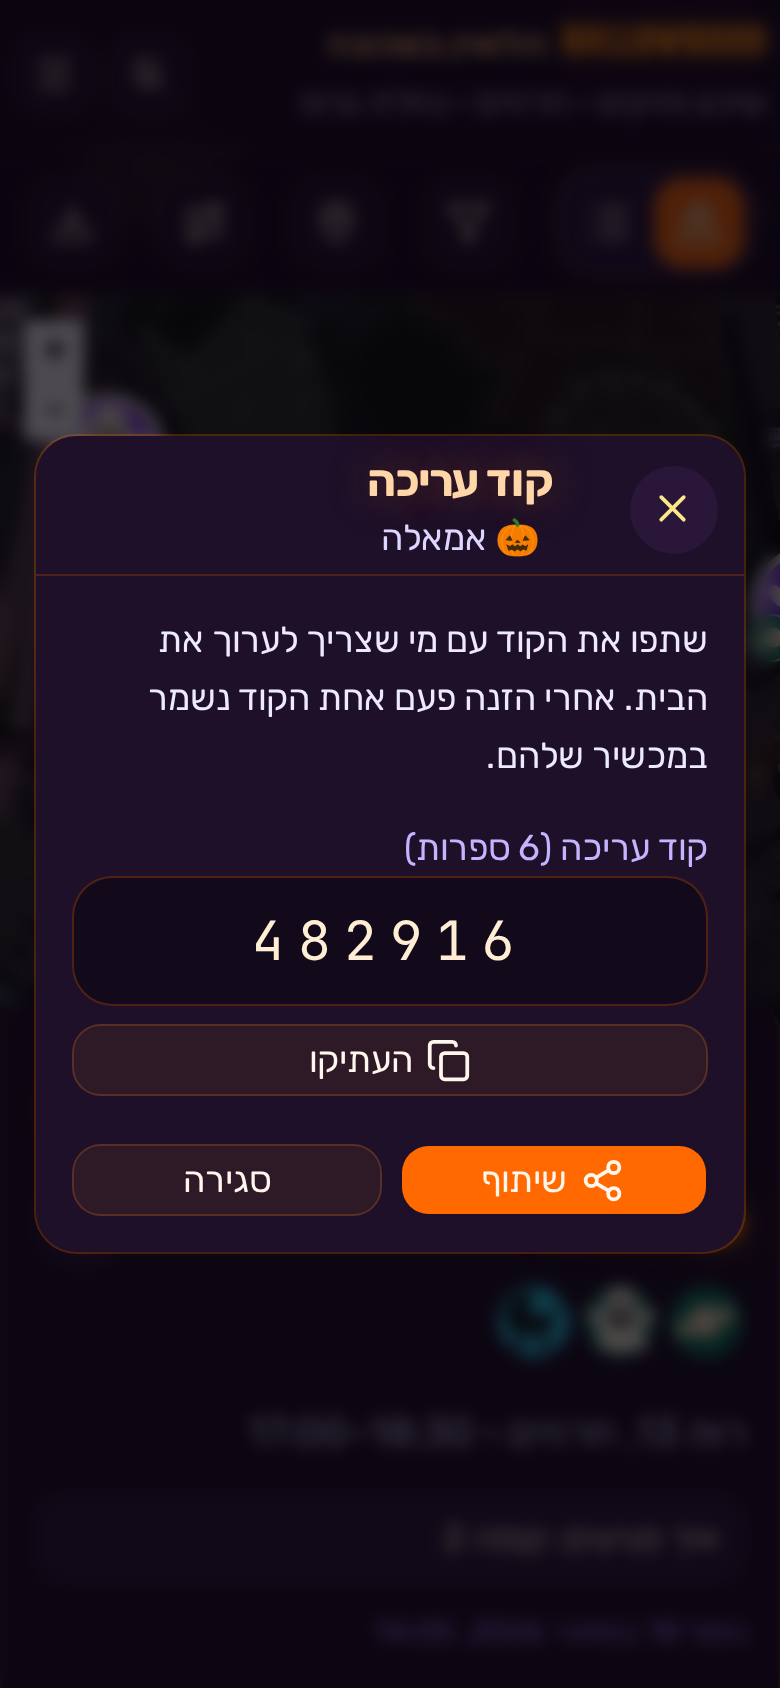
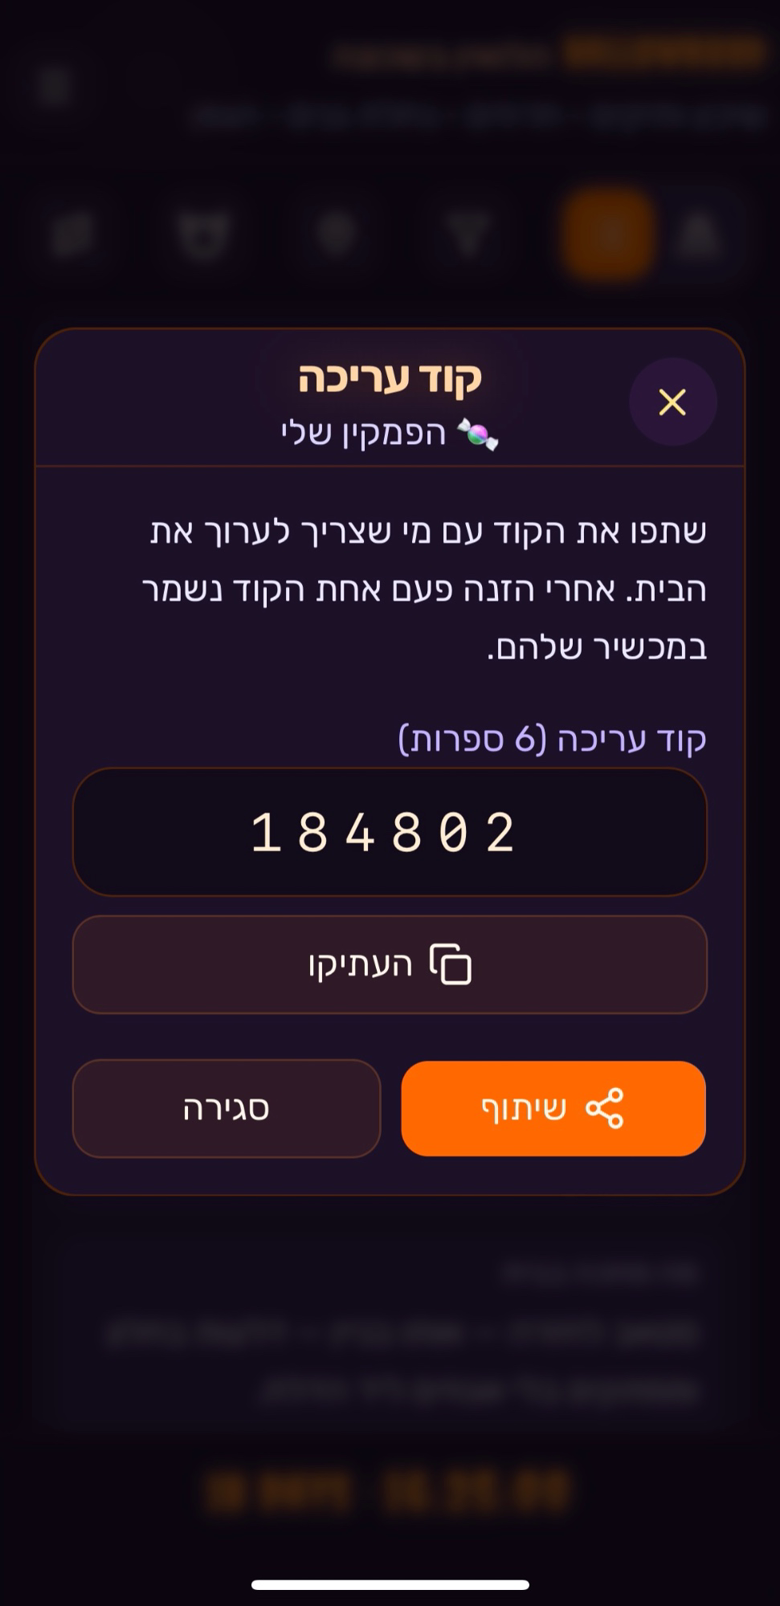
Sanitize share-edit-code help: use dialog screenshot, drop address images
Replace share-edit-code-dialog.png with a redacted screenshot (הפמקין שלי, demo code).
Remove menu screenshots from steps 1–2 that exposed real addresses; make HelpStep images optional.
Bump help image cache version and update SVG generator placeholders.

diff --git a/src/app/help/share-edit-code/page.tsx b/src/app/help/share-edit-code/page.tsx
@@ -7,14 +7,10 @@ const STEPS = [
   {
     title: "פתחו את תפריט הפעולות (⋮)",
     body: "במפה או ברשימה, פתחו את כרטיס הבית. בפינה העליונה של הכרטיס לחצו על <<⋮>> (שלוש נקודות).",
-    image: helpImage("share-edit-code-menu.png"),
-    imageAlt: "תפריט פעולות — שלוש נקודות בכרטיס הבית",
   },
   {
     title: "בחרו <<קוד עריכה>>",
     body: "בתפריט שנפתח בחרו <<קוד עריכה>>. מופיעים רק לבעלי הבית או למנהל.",
-    image: helpImage("share-edit-code-menu.png"),
-    imageAlt: "פריט קוד עריכה בתפריט הפעולות",
   },
   {
     title: "העתיקו או שתפו",

diff --git a/src/components/help-shell.tsx b/src/components/help-shell.tsx
@@ -120,8 +120,8 @@ export function HelpStep({
   body: ReactNode;
   /** When true (default for string bodies), `body` is parsed for <<ui-label>> chips only. */
   parseBody?: boolean;
-  image: string;
-  imageAlt: string;
+  image?: string;
+  imageAlt?: string;
   action?: ReactNode;
 }) {
   const renderedTitle = typeof title === "string" ? renderHelpText(title) : title;
@@ -141,7 +141,7 @@ export function HelpStep({
       </div>
       <div className="text-lg leading-relaxed text-orange-50">{renderedBody}</div>
       {action}
-      <HelpShot src={image} alt={imageAlt} />
+      {image ? <HelpShot src={image} alt={imageAlt ?? ""} /> : null}
     </li>
   );
 }

diff --git a/src/lib/help-images.ts b/src/lib/help-images.ts
@@ -1,5 +1,5 @@
 /** Real app screenshots (PNG) under /images/help — not /help/* (avoids App Router route clash). */
-const HELP_IMAGES_VERSION = "9";
+const HELP_IMAGES_VERSION = "10";
 
 export function helpImage(path: string) {
   const file = path.replace(/^\//, "");
